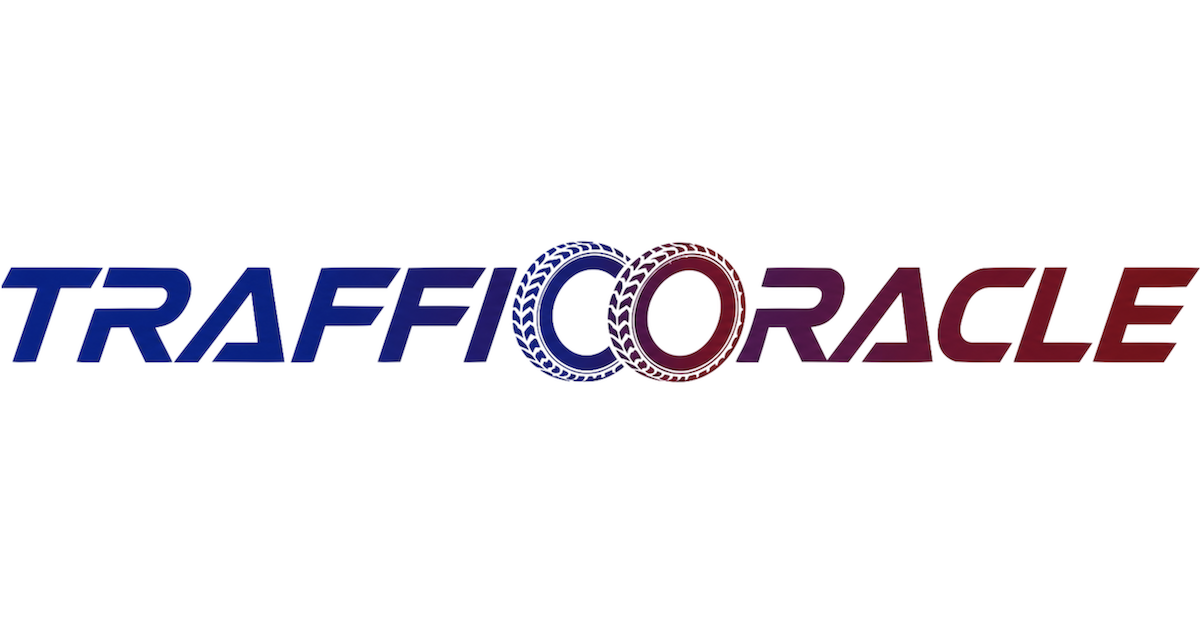
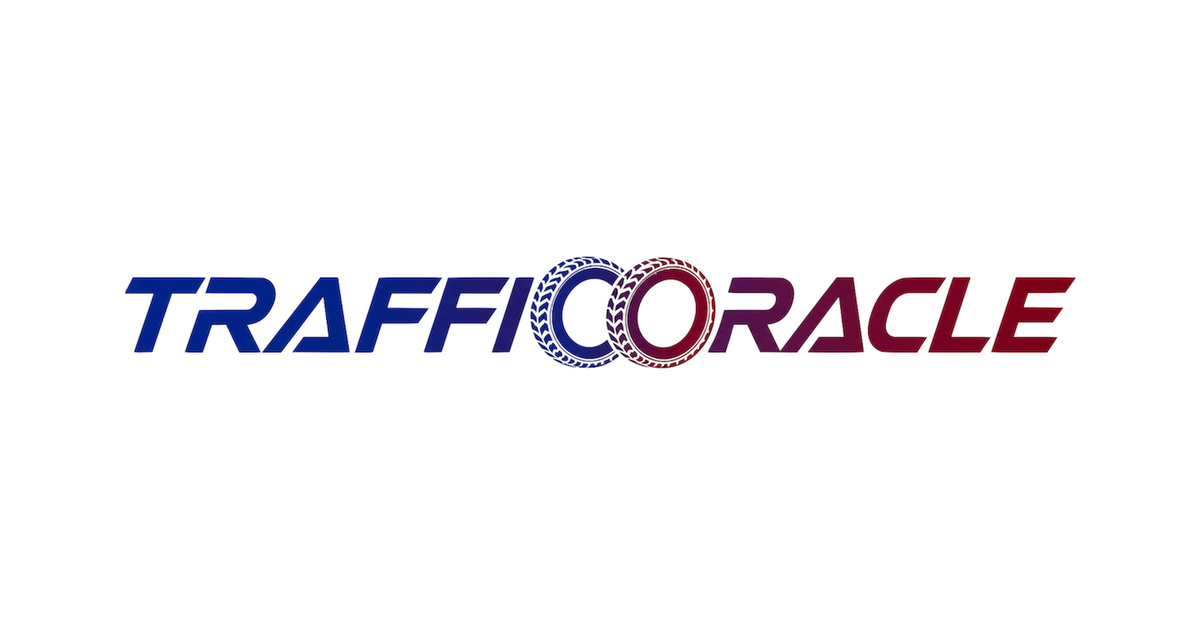
chore(social): update social image URLs to v2
- Update og:image and twitter:image meta tags to trafficoracle-social.png?v=2 to bust caches.
- Replace the social image asset with the updated version for parity.

Changed region(s): [[0.0, 0.3619, 1.0, 0.6032]]

diff --git a/index.html b/index.html
@@ -11,14 +11,14 @@
     <meta property="og:url" content="https://trafficoracle.thecontrarian.in/" />
     <meta property="og:title" content="TraffiCOracle - Real-time Bangalore Traffic Analysis" />
     <meta property="og:description" content="Compare current speeds with historical patterns across major routes. Know before you go." />
-    <meta property="og:image" content="https://trafficoracle.thecontrarian.in/trafficoracle-social.png" />
+    <meta property="og:image" content="https://trafficoracle.thecontrarian.in/trafficoracle-social.png?v=2" />
 
     <!-- Twitter -->
     <meta name="twitter:card" content="summary_large_image" />
     <meta name="twitter:url" content="https://trafficoracle.thecontrarian.in/" />
     <meta name="twitter:title" content="TraffiCOracle - Real-time Bangalore Traffic Analysis" />
     <meta name="twitter:description" content="Compare current speeds with historical patterns across major routes. Know before you go." />
-    <meta name="twitter:image" content="https://trafficoracle.thecontrarian.in/trafficoracle-social.png" />
+    <meta name="twitter:image" content="https://trafficoracle.thecontrarian.in/trafficoracle-social.png?v=2" />
 
     <link rel="icon" type="image/png" href="/trafficoracle-dark.png" />
     <link rel="preconnect" href="https://fonts.googleapis.com">